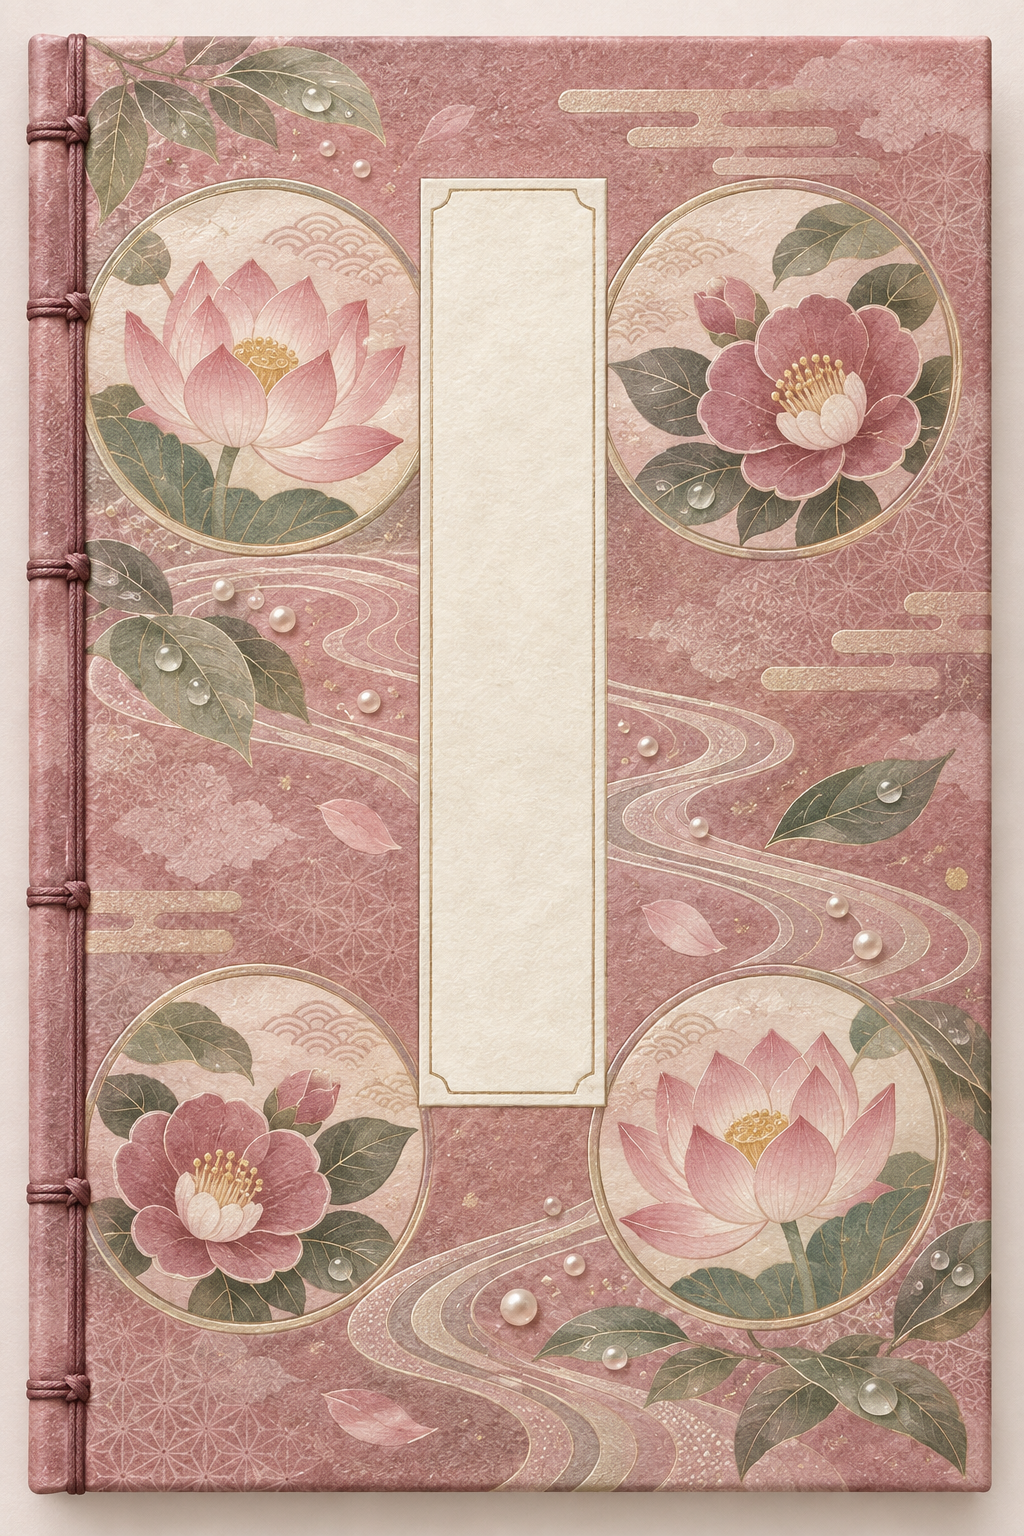
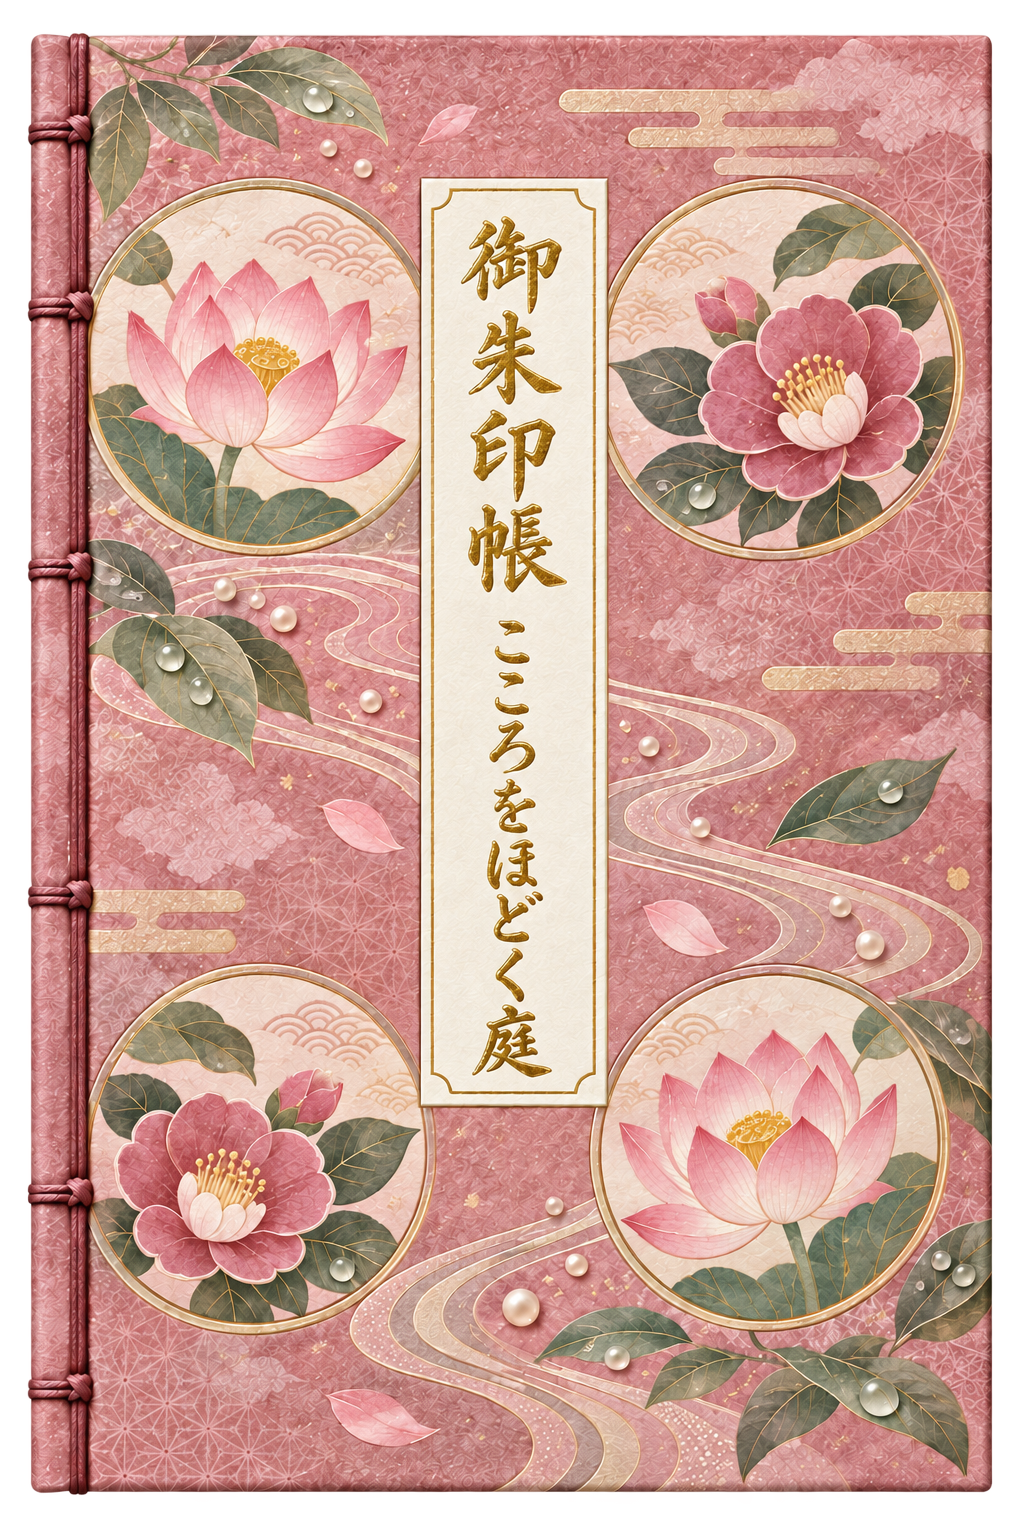
Update goshuin cover presentation

diff --git a/src/components/GoshuinBook.tsx b/src/components/GoshuinBook.tsx
@@ -9,11 +9,8 @@ import { WashiArt, WashiPressable as Pressable } from './Washi';
 
 export function GoshuinBookCover({ route, onOpen }: { route: Pilgrimage; onOpen: () => void }) {
   return <View style={S.coverStage}>
-    <Pressable artwork={false} accessibilityRole="button" accessibilityLabel={`${route.name}の御朱印帳をひらく`} accessibilityHint="御朱印帳の見開きを表示します" onPress={onOpen} style={[S.cover, { borderColor: route.color }]}>
-      <Image source={getGoshuinBookCover(route.id)} contentFit="cover" style={S.coverImage} />
-      <View pointerEvents="none" style={S.coverShade} />
-      <View pointerEvents="none" style={S.coverFrame} />
-      <View pointerEvents="none" style={S.coverCopy}><Text style={S.coverKicker}>MOBIDOU</Text><Text style={S.coverTitle}>御朱印帳</Text><View style={S.coverRule} /><Text numberOfLines={2} style={S.coverRoute}>{route.name}</Text></View>
+        <Pressable artwork={false} accessibilityRole="button" accessibilityLabel={`${route.name}の御朱印帳をひらく`} accessibilityHint="御朱印帳の見開きを表示します" onPress={onOpen} style={S.cover}>
+          <Image source={getGoshuinBookCover(route.id)} contentFit="contain" style={S.coverImage} />
     </Pressable>
   </View>;
 }
@@ -48,10 +45,8 @@ export function GoshuinImageListModal({ visible, route, shrines, acquiredCount, 
 
 const S = StyleSheet.create({
   coverStage: { minHeight: 500, alignItems: 'center', justifyContent: 'center', paddingVertical: 20 },
-  cover: { width: '68%', maxWidth: 288, aspectRatio: .7, borderRadius: 11, overflow: 'hidden', borderWidth: 2, backgroundColor: '#7E3932', shadowColor: '#493125', shadowOffset: { width: 8, height: 10 }, shadowOpacity: .28, shadowRadius: 12, elevation: 8 },
-  coverImage: { ...StyleSheet.absoluteFillObject }, coverShade: { ...StyleSheet.absoluteFillObject, backgroundColor: '#271B1254' },
-  coverFrame: { position: 'absolute', top: 15, right: 15, bottom: 15, left: 15, borderWidth: 1, borderColor: '#F5E5C0B8', borderRadius: 4 },
-  coverCopy: { ...StyleSheet.absoluteFillObject, alignItems: 'center', justifyContent: 'center', padding: 26 }, coverKicker: { color: '#FFF3D8', fontSize: 9, letterSpacing: 3 }, coverTitle: { color: '#FFF8E9', fontFamily: 'ShipporiBold', fontSize: 34, letterSpacing: 5, marginTop: 12, textShadowColor: '#2A1C18AA', textShadowRadius: 4 }, coverRule: { width: 38, height: 1, backgroundColor: '#F5E5C0', marginVertical: 18 }, coverRoute: { color: '#FFF3D8', fontFamily: 'Shippori', fontSize: 15, lineHeight: 25, textAlign: 'center' },
+  cover: { width: '68%', maxWidth: 288, aspectRatio: 2 / 3, overflow: 'visible', backgroundColor: 'transparent' },
+  coverImage: { ...StyleSheet.absoluteFillObject },
   modalRoot: { flex: 1, alignItems: 'center', justifyContent: 'center', padding: 18 }, scrim: { ...StyleSheet.absoluteFillObject, backgroundColor: '#271E18AA' }, modalCard: { width: '100%', maxWidth: 440, maxHeight: '82%', borderRadius: 22, backgroundColor: '#FFF9EF', padding: 17, overflow: 'hidden' }, modalHeader: { flexDirection: 'row', alignItems: 'center', justifyContent: 'space-between', marginBottom: 14 }, modalEyebrow: { color: C.red, fontSize: 10, letterSpacing: 1.2 }, modalTitle: { color: C.ink, fontFamily: 'Shippori', fontSize: 20, marginTop: 4, maxWidth: 310 }, close: { width: 42, height: 42, borderRadius: 21, backgroundColor: '#F0E5D7', alignItems: 'center', justifyContent: 'center' },
   grid: { flexDirection: 'row', flexWrap: 'wrap', gap: 8, paddingBottom: 4 }, tile: { width: '31%', aspectRatio: .82, borderRadius: 10, borderWidth: 1, borderColor: '#DED0BD', backgroundColor: '#FFFDF7', padding: 5, overflow: 'hidden' }, tileUnacquired: { opacity: .28, backgroundColor: '#E9E2D7' }, stamp: { width: '100%', height: '100%' },
 });

diff --git a/src/components/HomeNavigation.tsx b/src/components/HomeNavigation.tsx
@@ -454,9 +454,9 @@ const S = StyleSheet.create({
   navIndicator: { width: 17, height: 3, backgroundColor: C.red, borderRadius: 4, marginTop: 1 },
   menuButton: { width: 76, minHeight: 75, alignItems: 'center', justifyContent: 'center', borderRadius: 24, borderWidth: 1, borderColor: '#A87552', backgroundColor: '#FCF9F1' },
   menuButtonOpen: { backgroundColor: '#F1E1D7', borderColor: C.red },
-  menuGlyph: { width: 29, height: 29, flexDirection: 'row', flexWrap: 'wrap', gap: 3, alignContent: 'center', justifyContent: 'center', borderWidth: 1, borderColor: '#A89480', borderRadius: 9, backgroundColor: '#FFF9EF', transform: [{ rotate: '0deg' }] },
+  menuGlyph: { width: 29, height: 29, flexDirection: 'row', flexWrap: 'wrap', gap: 3, alignContent: 'center', justifyContent: 'center', backgroundColor: 'transparent', transform: [{ rotate: '0deg' }] },
   menuGlyphOpen: { transform: [{ rotate: '45deg' }] },
-  menuSquare: { width: 10, height: 10, borderRadius: 3, borderWidth: 1.5, borderColor: '#766A5D', backgroundColor: '#FFF9EF' },
+  menuSquare: { width: 12, height: 12, borderRadius: 3, borderWidth: 1.5, borderColor: '#766A5D', backgroundColor: '#FFF9EF' },
   menuSquareOpen: { borderColor: C.red, backgroundColor: '#FFF1EA' },
   actionArc: { position: 'absolute', right: 84, bottom: -8, width: 174, height: 91, zIndex: 5, flexDirection: 'row', gap: 6, padding: 8, borderRadius: 28, overflow: 'hidden', borderWidth: 1, borderColor: '#A87552', shadowColor: '#4A2D1F', shadowOffset: { width: 0, height: 5 }, shadowOpacity: .24, shadowRadius: 9, elevation: 7 },
   menuPanelBackground: { ...StyleSheet.absoluteFillObject },
